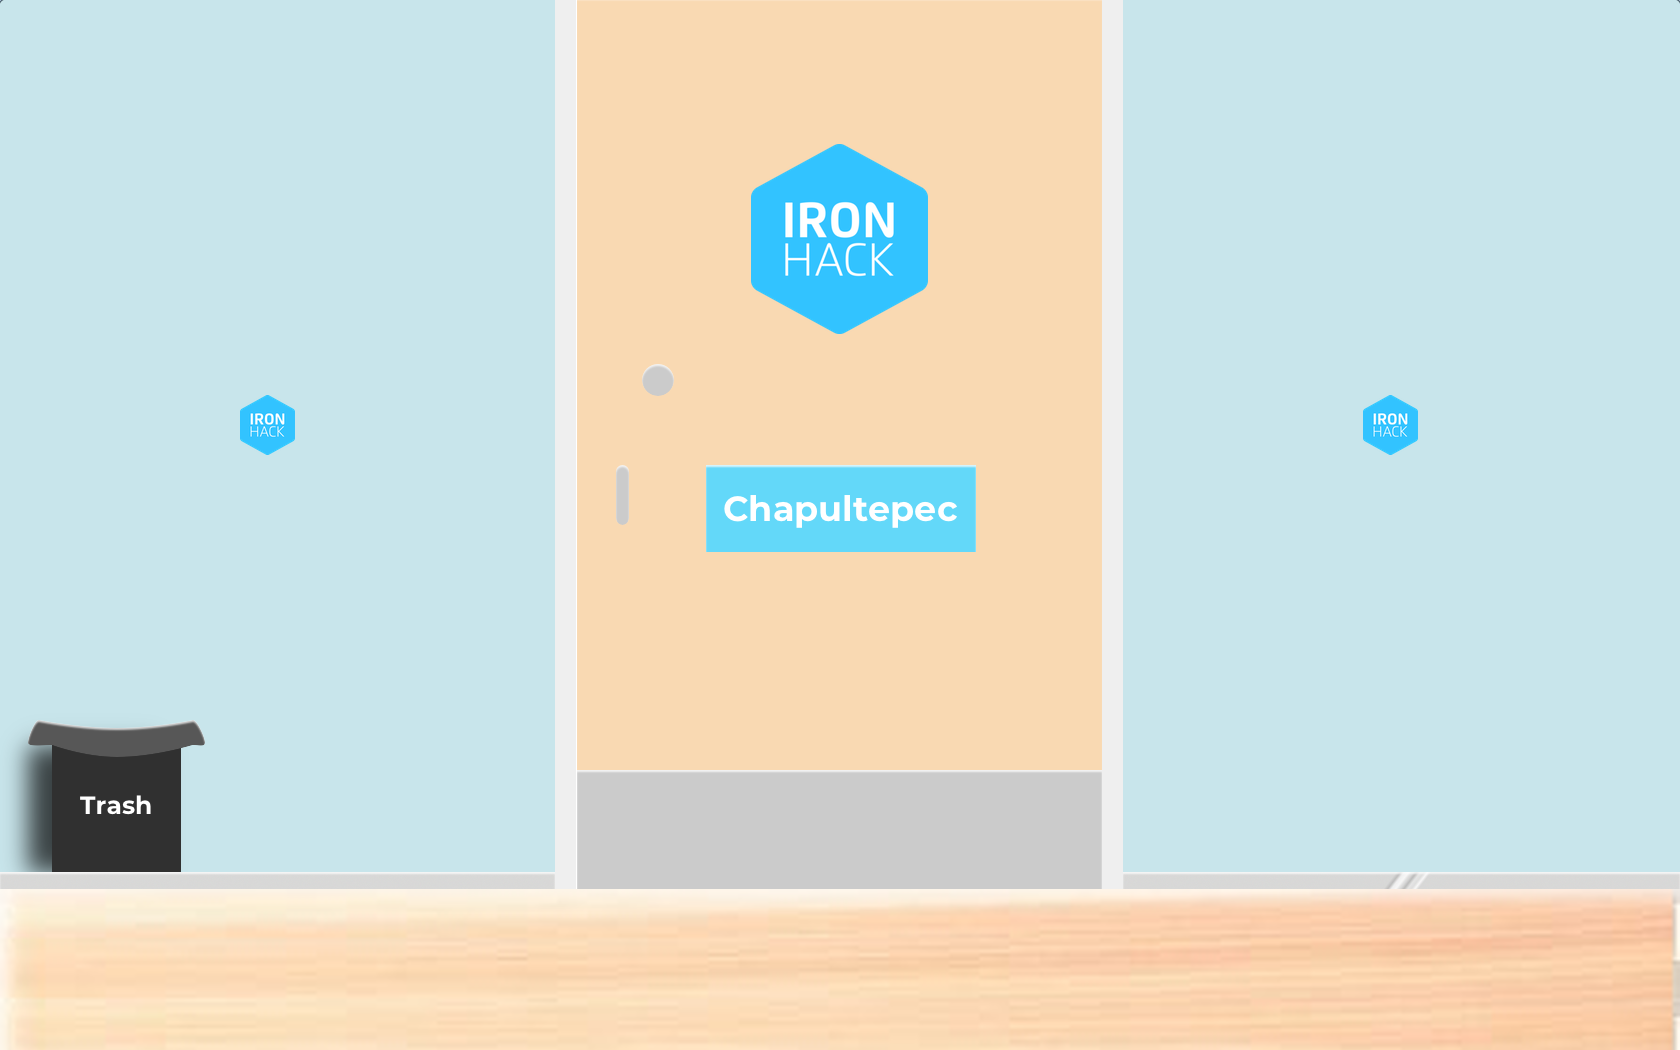
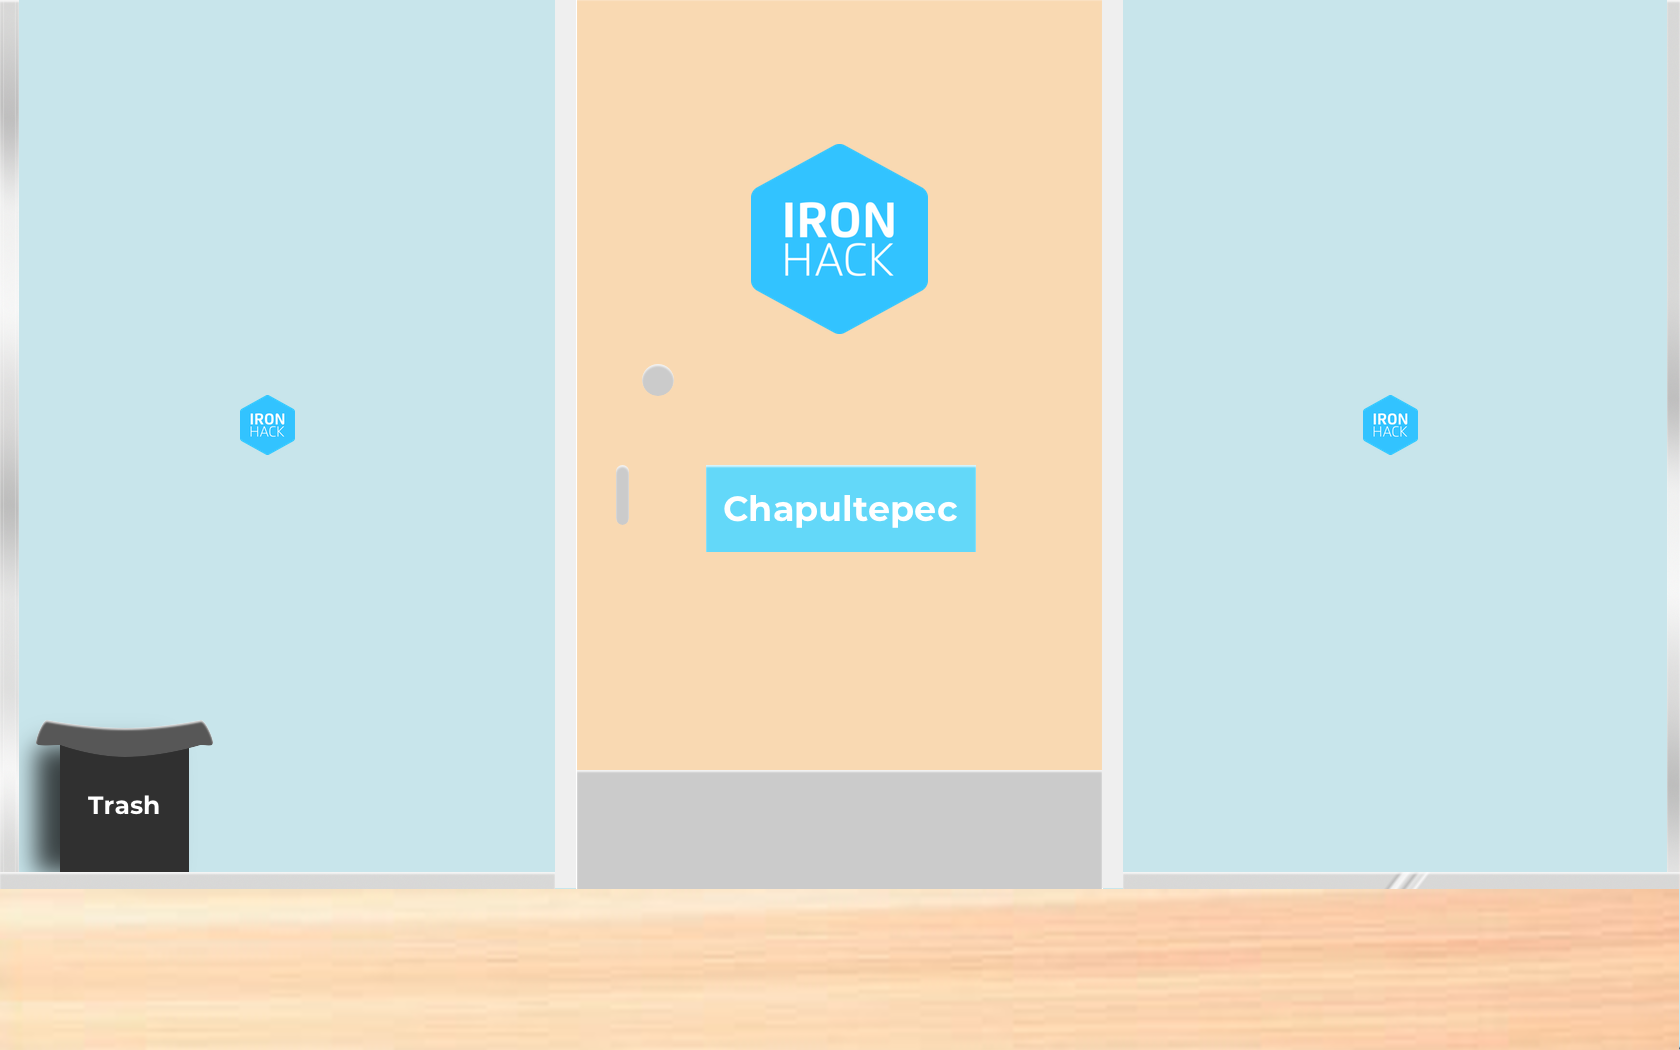
1. New background was added. 2. Clean code in different files. 3. Background moves.

Changed region(s): [[0.0, 0.3048, 1.0, 1.0], [0.0, 0.0305, 0.031, 0.3962]]

diff --git a/javascript/main.js b/javascript/main.js
@@ -6,30 +6,23 @@ const context = canvas.getContext('2d')
 context.canvas.width = innerWidth;
 context.canvas.height = innerHeight;
 
-// Object of images.
-let images = {
-  background: './images/Background/Background.png'
-}
-
-// Classes.
-class Board {
-  constructor(img) {
-    this.x = 0
-    this.y = 0
-    this.width = canvas.width
-    this.height = canvas.height
-    this.img = new Image()
-    this.img.src = img
-    this.img.onload = () => {
-      this.draw()
-    }
-  }
-  
-  draw() {
-    context.drawImage(this.img, this.x, this.y, this.width, this.height)
-  }
-}
+// Variables aux.
+let frames = 0
+let interval
 
 // Instance and draw
 let scenario = new Board(images.background)
 scenario.draw()
+
+function update() {
+  frames++
+  context.clearRect(0, 0, canvas.width, canvas.height);
+  scenario.draw()
+}
+
+function startGame() {
+  if(interval) return
+  interval = setInterval(update, 1000 / 120)
+}
+
+startGame()

diff --git a/javascript/classes.js b/javascript/classes.js
@@ -1,0 +1,30 @@
+// Object of images.
+let images = {
+  background: './images/Background/background.png'
+}
+
+// Classes.
+class Board {
+  constructor(img) {
+    this.x = 0
+    this.y = 0
+    this.width = canvas.width
+    this.height = canvas.height
+    this.img = new Image()
+    this.img.src = img
+    this.img.onload = () => {
+      this.draw()
+    }
+  }
+  
+  draw() {
+    context.drawImage(this.img, this.x, this.y, this.width, this.height)
+    context.drawImage(this.img, this.x + canvas.width, this.y, this.width, this.height)
+    this.moveBoard()
+  }
+
+  moveBoard() {
+    this.x--
+    if (this.x < -canvas.width) this.x = 0
+ }
+}

diff --git a/index.html b/index.html
@@ -99,6 +99,7 @@
   </div>
   <script src="https://unpkg.com/@agilie/canvas-image-cover-position"></script>
   <script src="./javascript/piano.js"></script>
+  <script src="./javascript/classes.js"></script>
   <script src="./javascript/main.js"></script>
 </body>
 
